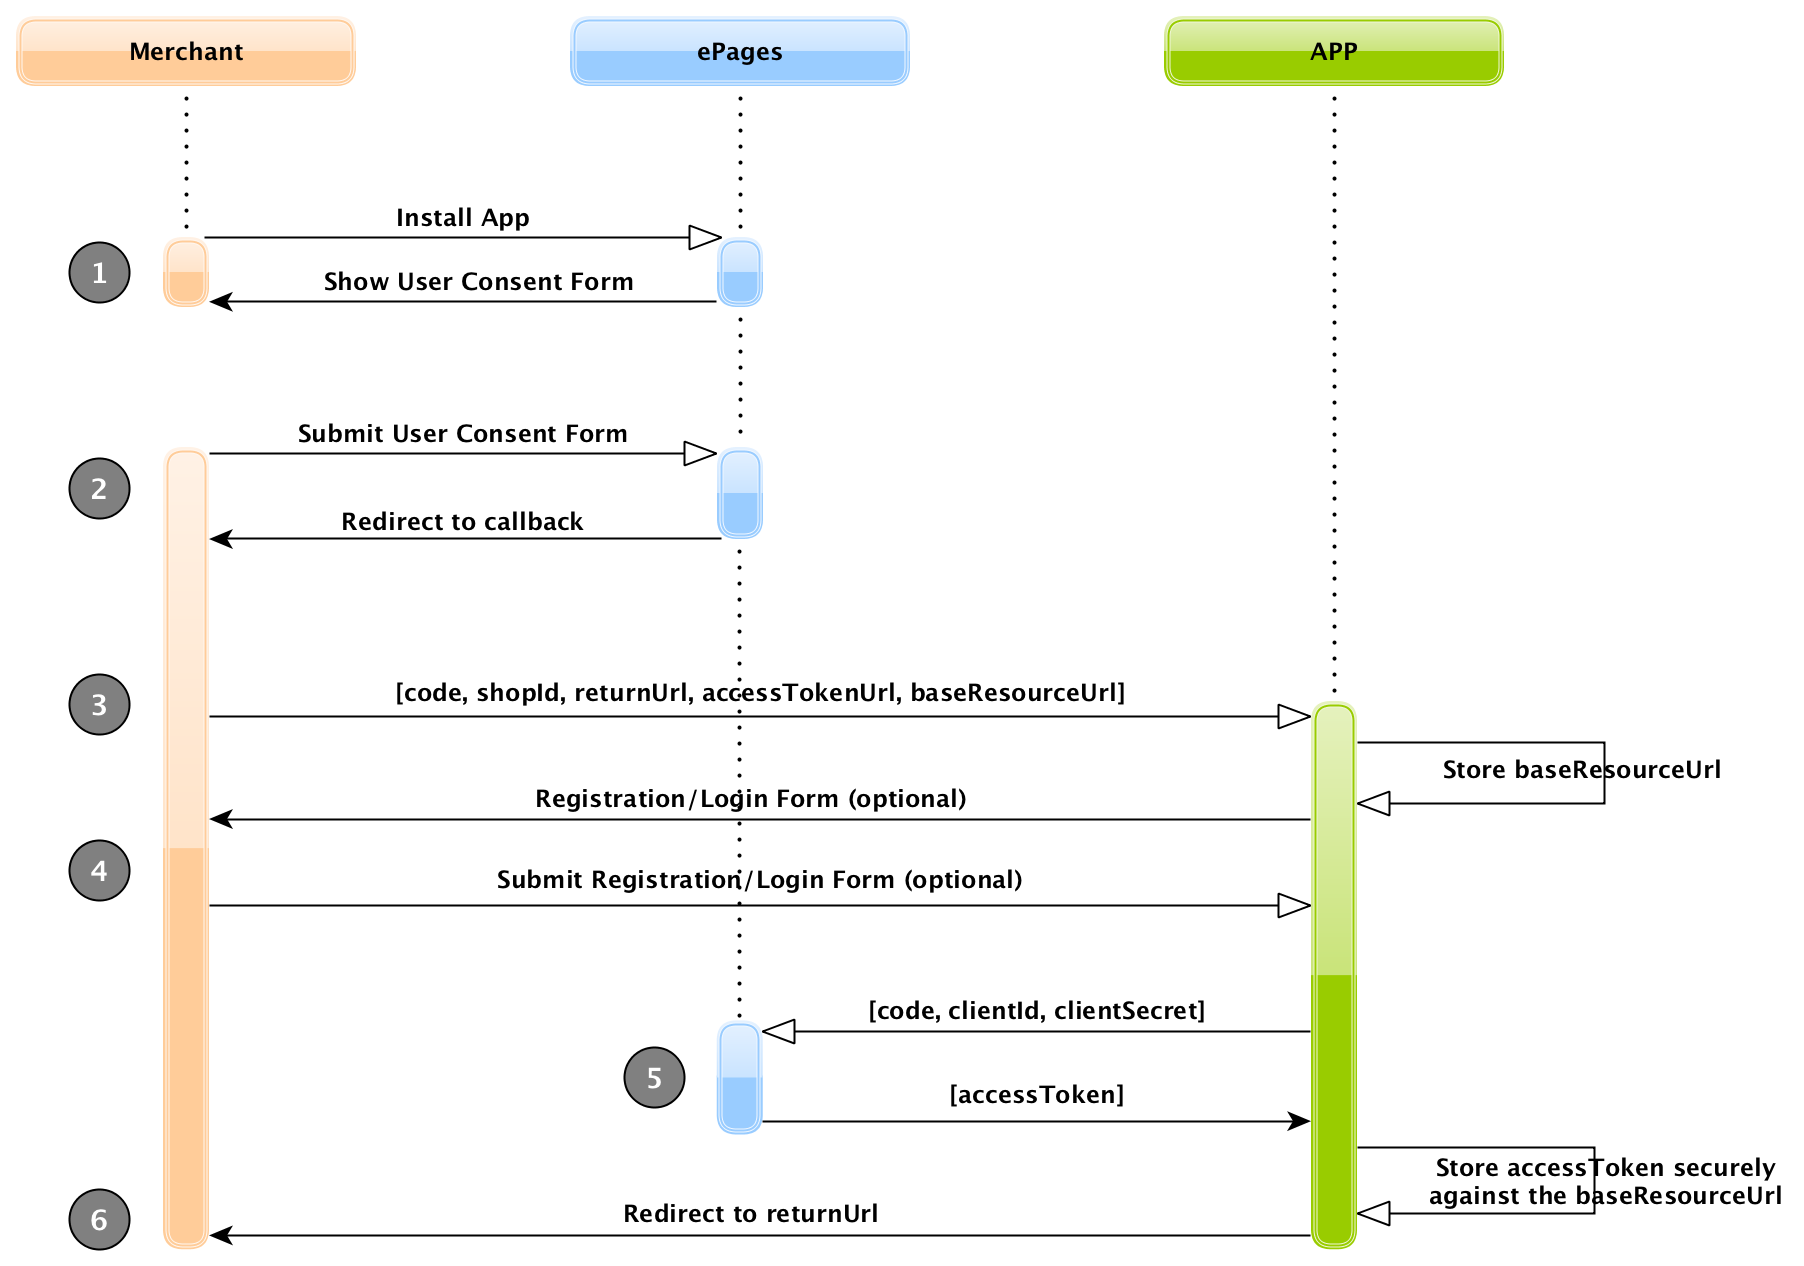
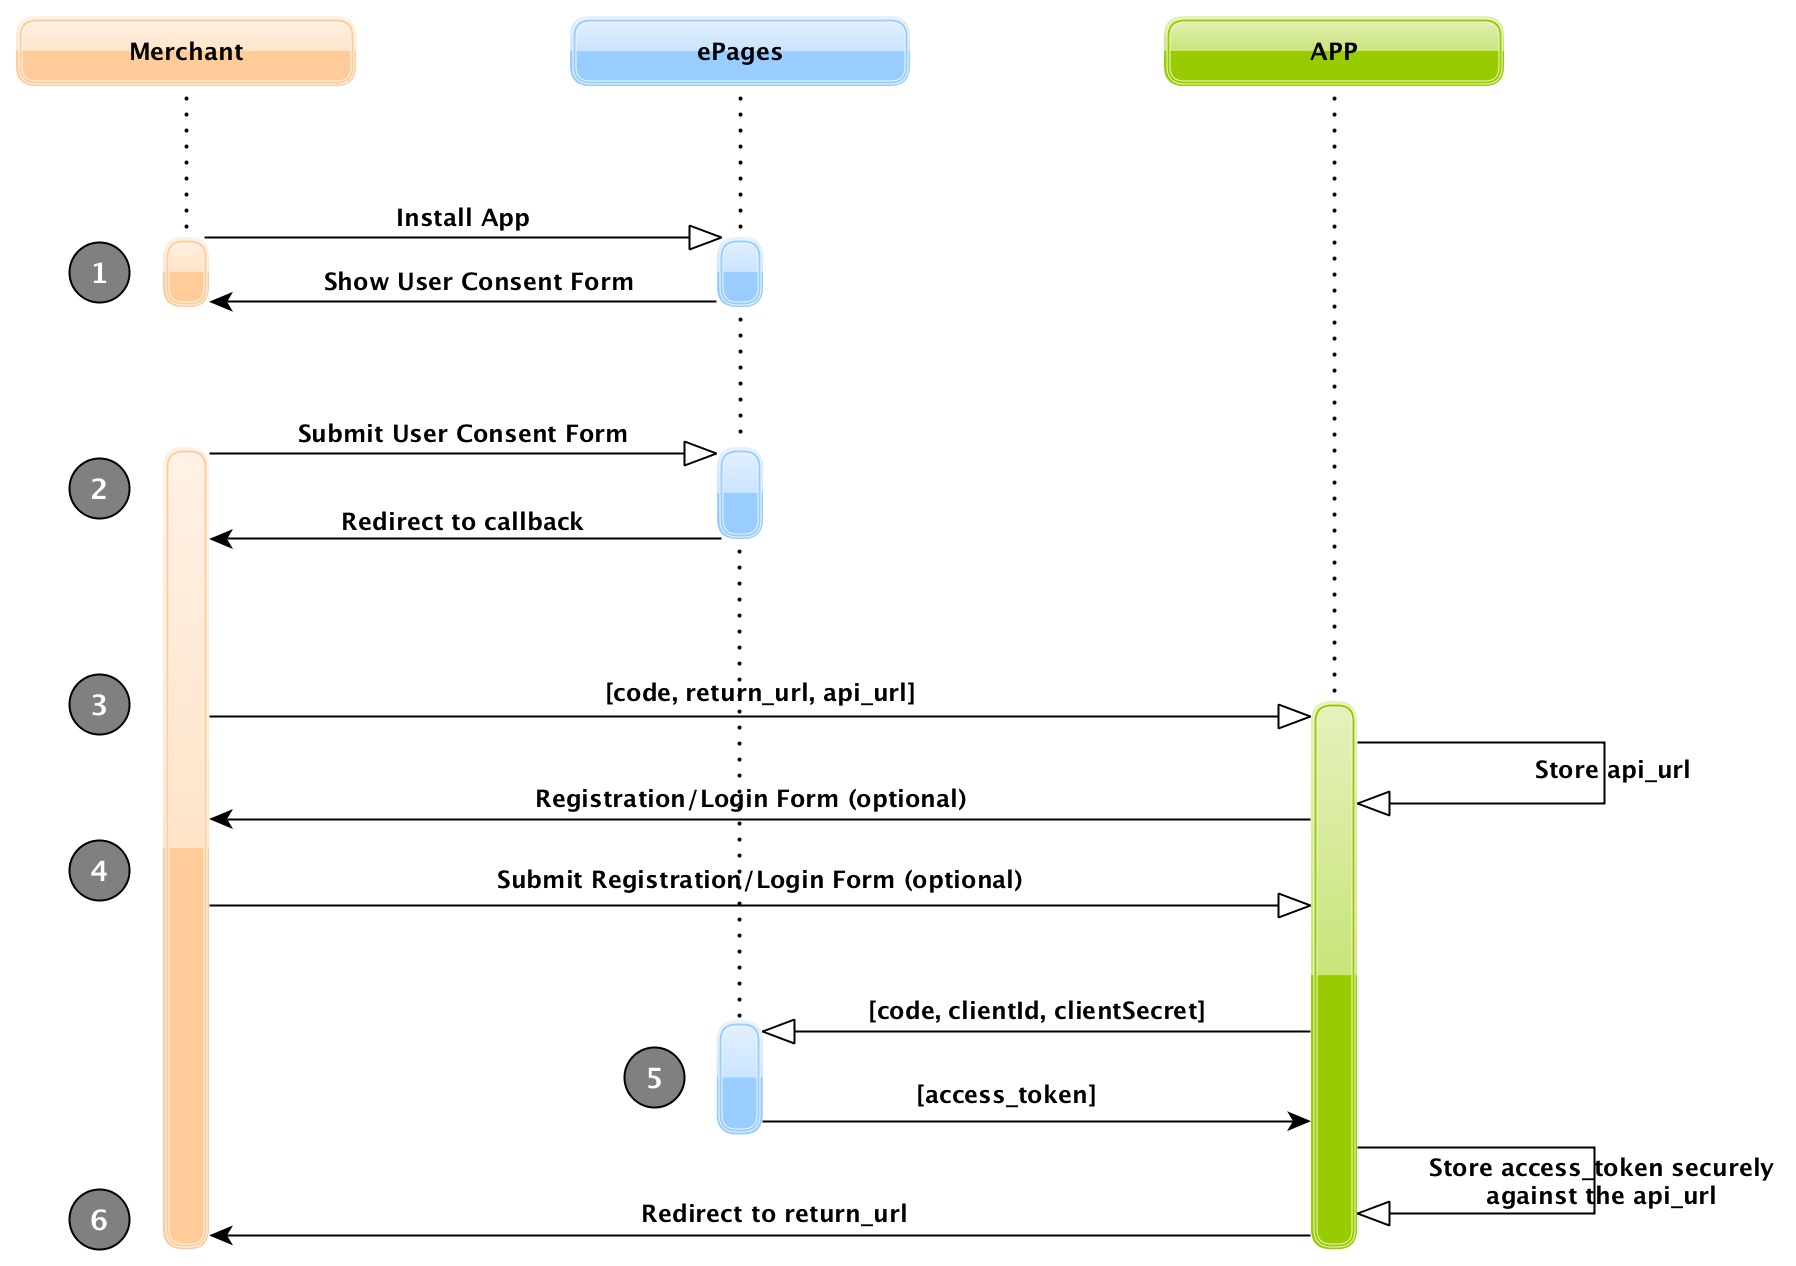
Adapt content to dev amendments

diff --git a/apps/install-app.md b/apps/install-app.md
@@ -6,6 +6,10 @@ title: Install an app
 
 Your app cannot access ePages data without getting authorisation from the merchant first. In this section we will help you through this authorisation process.
 
+{% callout info PRO TIP %}
+This process describes a perfect scenario. During app development, ensure you consider common pitfalls, e.g. call limit exceeded, network failure, communication errors etc.
+{% endcallout %}
+
 # Credentials
 
 You retrieved a **Client ID** and a **Client Secret** that are known to both ePages and your application. Visit the [get your credentials](page:apps-create#get-your-credentials) page for further information on this subject. Your app uses these credentials for identification during the authorisation process.
@@ -23,7 +27,6 @@ Before jumping into the authorisation process, let's look at some terms that wil
 # Authorisation process
 
 {% image oauth2-flow.png %}
-OAuth 2.0 process
 {% endimage %}
 
 ## 1. Ask for permission
@@ -31,7 +34,6 @@ OAuth 2.0 process
 The merchant decided to install your app. Great! They will then be asked, whether they want to grant your app the permissions that it is requesting. While submitting the app, you have to define a **scope**, which outlines the permissions and access needed by your app. ePages displays the user consent form to the merchant as follows:
 
 {% image asking-for-permission.png %}
-Consent page
 {% endimage %}
 
 ## 2. Confirm the installation
@@ -40,40 +42,46 @@ The merchant agrees and submits the consent form by clicking the button **Instal
 
 ## 3. Receive authorisation code
 
-ePages makes a `GET` request to the **Application Callback URL** provided by the app developer.
+ePages makes a `GET` request to the **Application Callback URL** provided by the app developer. The required query parameters, see table below, will be automatically passed by ePages.
+
+{% callout warning SSL required! %}
+All requests must be https.
+{% endcallout %}
 
 Example:
 
 {% highlight text %}
-GET /callback?code={code}&shopId={shopId}&returnUrl={returnUrl}&accessTokenUrl={accessTokenUrl}&baseResourceUrl={baseResourceUrl} HTTP/1.1
-Host: tastytoppings.com
+GET /callback?code={code}&return_url={return_url}&api_url={api_url} HTTP/1.1
+Host: crazytoppingapp.com
 {% endhighlight %}
 
 Substitutions would be made as given in this example table:
 
-| Query parameter              | Example                                                                                             |
-|--------------------|---------------------------------------------------------------------------------------------------------|
-| {`code`}      | f32ddSbuff2IGAYvtiwYQiyHyuLJWbey     |
-| {`shopId`}   | CreamyIceShop|
-| {`returnUrl`}    | https://creamyiceshop.com/epages/CreamyIceShop.admin/?ObjectID=17811&ViewAction=MBO-ViewAppDetails&appID=54f46f318732110bd85f41c7 |
-| {`accessTokenUrl`}      | https://creamyiceshop.com/rs/shops/CreamyIceShop/token |
-| {`baseResourceUrl`}      | https://creamyiceshop.com/rs/shops/CreamyIceShop |
+| Query parameter           | Description   | Example                  |
+|--------------------|--------------------------------|----------------|
+| {`code`}      | Authentication code that is required for the app installation process to obtain the `access_token`.     | f32ddSbuff2IGAYvtiwYQiyHyuLJWbey |
+| {`api_url`}      | The part of all API endpoint URLs, that uniquely identifies the merchant. The `api_url` differs for every merchant and has to be stored in the app.  | https://creamyiceshop.com/rs/shops/CreamyIceShop |
+| {`return_url`}    | The URL that redirects the merchant to the administration area. | https://creamyiceshop.com/epages/CreamyIceShop.admin/?ObjectID=17811&ViewAction=MBO-ViewAppDetails&appID=54f46f318732110bd85f41c7 |
 
-Your app can use the `code` in combination with your **Client ID** and **Client Secret** for obtaining an `accessToken`. This code is temporary.
+Your app can use the `code` in combination with your **Client ID** and **Client Secret** for obtaining an `access_token`. This code is temporary and will be obsolete after app installation. To obtain the `access_token`, attach the string `token` to the `api_url`, e.g. https://creamyiceshop.com/rs/shops/CreamyIceShop/token.
 
 ## 4. Registration (optional)
 
-If your app requires a registration process, this optional step can be included before obtaining the `accessToken`. During this, the app would display the registration or login form to the merchant.
+If your app requires a registration process, this optional step can be included before obtaining the `access_token`. During this, the app would display the registration or login form to the merchant.
 
 ## 5. Send request for access token
 
-To request an `accessToken`, make a HTTPS `POST` request to the API including the following parameters:
+To request an `access_token`, make a `POST` request to the API including the following parameters:
 
 | Field              | Description                                                                                             |
-|--------------------|---------------------------------------------------------------------------------------------------------|
+|--------------------|------------------------------|
 | `code`      | The code provided in the **Application Callback URL** ([see above](page:apps-install#receive-authorisation-code)).     |
 | `clientId`   | The client key for the app (see the [get your credentials](page:apps-create#get-your-credentials) section).|
 | `clientSecret`    | The shared client secret for the app (see the [get your credentials](page:apps-create#get-your-credentials) section). |
+
+{% callout warning Consider the Content-Type! %}
+The `POST` request has to be x-www-form-urlencoded!
+{% endcallout %}
 
 Example:
 
@@ -85,7 +93,7 @@ Content-Type: application/x-www-form-urlencoded
 code=f32ddSbuff2IGAYvtiwYQiyHyuLJWbey&client_id=value&client_secret=value
 {% endhighlight %}
 
-In a successful response, a JSON object is returned with an `accessToken` that can be sent to the ePages API, similar to the following:
+In a successful response, a JSON object is returned with an `access_token` that can be sent to the ePages API, similar to the following:
 
 {% highlight text %}
 HTTP/1.1 200 OK
@@ -94,40 +102,54 @@ X-epages-Media-Type: application/vnd.epages.v1+json
 {% endhighlight %}
 {% highlight json %}
 {
-  "accessToken": "4HZ9hriF6J3GOnd10JbFzdVehycOvAZf"
+  "access_token": "4HZ9hriF6J3GOnd10JbFzdVehycOvAZf"
 }
 {% endhighlight %}
 
-This is a permanent `accessToken` that can be used to access the shop's data as long as the app is installed in the merchant's shop. This `accessToken` allows your application to act on behalf of the merchant on this specific shop.
+This is a permanent `access_token` that can be used to access the shop's data as long as the app is installed in the merchant's shop. This `access_token` allows your application to act on behalf of the merchant on this specific shop.
 
 {% callout danger Top secret! %}
-With this `accessToken` you make authenticated requests to the shop's data. Store the `accessToken` securely against the `baseResourceUrl`. Do not share the `accessToken` with anyone!
+With this `access_token` you make authenticated requests to the shop's data. Store the `access_token` securely against the `api_url`. Do not share the `access_token` with anyone!
 {% endcallout %}
+
+{% callout info PRO TIP %}
+Take a look at the below table for an example how to manage the data of different merchants.
+{% endcallout %}
+
+Example:
+
+| Shop           | `api_url`   | `access_token`                  |
+|--------------------|--------------------------------|----------------|
+| CreamyIceShop   | https://creamyiceshop.com/rs/shops/CreamyIceShop | dff6d20e |
+| QuarkyAustrian  | https://quarkyaustrian.com/rs/shops/QuarkyAustrian | 136fe60f |
+| TastyFlummery   | https://tastyflummery.com/rs/shops/TastyFlummery | 93d621cc |
 
 ## 6. Redirect the merchant
 
-Once the authorisation process is complete, your app has to send the merchant back to the `returnUrl` the app received [before](page:apps-install#receive-authorisation-code).
+Once the authorisation process is complete, your app has to send the merchant back to the `return_url` the app received [before](page:apps-install#receive-authorisation-code).
+
+In case of a successful app installation, the merchant will be able to open the app in the Apps & Themes Store. If an error occurred during installation, the **Install** button instead of the **Open app** button will be shown.
+
+{% image app-install-success.png %}
+{% endimage %}
+
+The app will also appear in the administration area in the section **My apps**.
+
+{% image app-install-success-myapps.png %}
+{% endimage %}
 
 # Make an authenticated request to the API
 
-Now that your application has received an `accessToken`, it can make authenticated requests to the ePages API.
+Now that your application has received an `access_token`, it can make authenticated requests to the ePages API.
 
 Example:
 
 {% highlight text %}
-GET /rs/shops/CreamyIceShop/{resource} HTTP/1.1
+GET /rs/shops/CreamyIceShop/products HTTP/1.1
 Host: creamyiceshop.com
 Accept: application/vnd.epages.v1+json
-Authorization: "Bearer {accessToken}
+Authorization: "Bearer 4HZ9hriF6J3GOnd10JbFzdVehycOvAZf
 {% endhighlight %}
-
-The substitution would be made as given in this example table:
-
-| Parameter              | Example                            |
-|--------------------|----------------------------------------|
-| {`accessToken`} | 4HZ9hriF6J3GOnd10JbFzdVehycOvAZf          |
-| {resource}      | products                                  |
-
 
 # Fancy more information?
 
